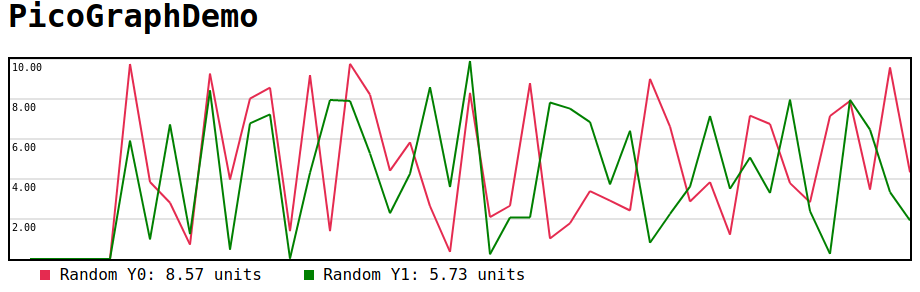
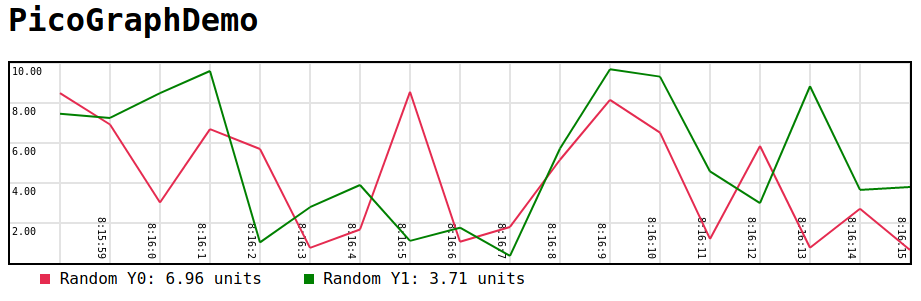
Added vertical lines and timestamps

Changed region(s): [[0.0, 0.1849, 1.0, 0.9555], [0.0, 0.0, 0.3043, 0.1233], [0.0, 0.4932, 0.0304, 0.524]]

diff --git a/picograph.js b/picograph.js
@@ -21,7 +21,8 @@ colors = [
 var byID = function(id) { return document.getElementById(id); };
 
 /* Helper function for creating graphs */
-function createGraph(canvasID, labels, unit, labelDivID, intervalSize, maxVal, scalesteps=5)
+function createGraph(canvasID, labels, unit, labelDivID, intervalSize, maxVal, 
+    vlines=false, timestamps=false, scalesteps=5)
 {
     /* Create valueIDs for each label */
     valueIDs = []
@@ -31,7 +32,8 @@ function createGraph(canvasID, labels, unit, labelDivID, intervalSize, maxVal, s
 
     /* Create graph  */
     var canvas = byID(canvasID);
-    var graph = new Graph(canvas, labels.length, valueIDs, unit, intervalSize, maxVal, scalesteps);
+    var graph = new Graph(canvas, labels.length, valueIDs, unit, intervalSize, maxVal, 
+        vlines, timestamps, scalesteps);
 
     /* Set label colors */
     for(var i = 0; i < labels.length; i++)
@@ -58,7 +60,7 @@ function createGraph(canvasID, labels, unit, labelDivID, intervalSize, maxVal, s
 /* Graph class, plots and updates graphs */
 class Graph
 {
-    constructor(canvas, noLabels, valueIDs, unit, intervalSize, maxVal, scalesteps)
+    constructor(canvas, noLabels, valueIDs, unit, intervalSize, maxVal, vlines, timestamps, scalesteps)
     {
         /* Get the drawing context */
         this.canvas = canvas;
@@ -68,17 +70,20 @@ class Graph
         /* Set proper height and width */
         this.setWidthHeight()
 
-        /* Initilize class varibles */
+        /* Initialize class variables */
         this.scalesteps = scalesteps
         this.noLabels = noLabels;
         this.intervalSize = intervalSize;
         this.nValuesFloat = this.width/intervalSize
         this.nValues = Math.round(this.nValuesFloat)+1;
         this.points = emptyArray(noLabels, this.nValues);
+        this.timestamps_array = emptyArray(1, this.nValues, "");
         this.colors = colorArray(noLabels);
         this.maxVal = maxVal;
         this.valueIDs = valueIDs;
         this.unit = unit;
+        this.vlines = vlines;
+        this.timestamps = timestamps;
     }
 
     setWidthHeight()
@@ -92,15 +97,25 @@ class Graph
         this.height = this.ctx.canvas.height;
     }
 
-    update(yval, labelID)
+    update(values)
     {
-        /* Update scale */
-        if(yval > this.maxVal) {
-            this.maxVal = yval;
-        }
+        for(var i = 0; i < this.noLabels; i++) {
+            /* Update scale */
+            if(values[i] > this.maxVal) {
+                this.maxVal = values[i];
+            }
 
-        /* Shift new point into points array */
-        this.points = shiftArrayRowLeft(this.points, labelID, this.nValues, yval);
+            /* Shift new point into points array */
+            this.points = shiftArrayRowLeft(this.points, i, this.nValues, values[i]);
+
+            /* Update value */
+            byID(this.valueIDs[i]).innerHTML = values[i].toFixed(2)+' '+this.unit;
+        } 
+
+        /* Log time and add to timestamps_array array */
+        var d = new Date();
+        var timestamp_str = d.getHours()+":"+d.getMinutes()+":"+d.getSeconds();
+        this.timestamps_array = shiftArrayRowLeft(this.timestamps_array, 0, this.nValues, timestamp_str);
 
         /* Clear canvas */
         this.ctx.clearRect(0, 0, this.width, this.height);
@@ -114,8 +129,27 @@ class Graph
         /* Set line width */
         this.ctx.lineWidth = 2*this.cssScale;
 
-        /* Draw scale */
+        /* Set font for canvas */
         this.ctx.font = (10*this.cssScale)+"px monospace";
+
+        /* Draw vertical scale */
+        if(this.vlines)
+        {
+            for(var i = this.nValues-1; i >= 0; i--)
+            {
+                /* Calculate line coordinates */
+                var x = (i+1)*this.intervalSize;
+    
+                /* Draw line */
+                this.ctx.beginPath();
+                this.ctx.moveTo(x, 0);
+                this.ctx.lineTo(x, this.height);
+                this.ctx.strokeStyle = "#e3e3e3";
+                this.ctx.stroke();
+            }   
+        }
+
+        /* Draw horizontal scale */
         var hstep = this.height/this.scalesteps;
         var sstep = this.maxVal/this.scalesteps;
         for(var i = 1; i <= this.scalesteps; i++)
@@ -130,6 +164,27 @@ class Graph
             this.ctx.strokeStyle = "#e3e3e3";
             this.ctx.stroke();
         }
+        
+        /* Draw time stamps */
+        if(this.timestamps)
+        {
+            var xBoundPix = this.ctx.measureText((this.scalesteps*sstep).toFixed(2)).width;
+            var xBound = Math.floor((xBoundPix/this.intervalSize)+1)
+            for(var i = this.nValues-1; i >= xBound; i--)
+            {
+                /* Calculate line coordinates */
+                var x = (i+1)*this.intervalSize;
+    
+    
+                /* Put time stamps */
+                var xoffset = 12*this.cssScale;
+                var yoffset = this.ctx.measureText(this.timestamps_array[0][i]).width+4*this.cssScale;
+                this.ctx.rotate(Math.PI/2);
+                this.ctx.fillText(this.timestamps_array[0][i], this.height-yoffset, -x+xoffset);
+                this.ctx.stroke();
+                this.ctx.rotate(-Math.PI/2);
+            }               
+        }  
 
         /* Draw graph */
         for(var i = 0; i < this.noLabels; i++)
@@ -150,9 +205,6 @@ class Graph
                 this.ctx.stroke();
             }
         }
-
-        /* Update value */
-        byID(this.valueIDs[labelID]).innerHTML = yval.toFixed(2)+' '+this.unit;
 
     }
 
@@ -178,13 +230,13 @@ function shiftArrayRowLeft(array, row, ncols, newVal)
 }
 
 /* Helper function to create an empty */
-function emptyArray(nrows, ncols) 
+function emptyArray(nrows, ncols, fill=0) 
 {
     var arr = [];
     for(var i = 0; i < nrows; i++) {
         arr[i] = [];
         for(var j = 0; j < ncols; j++) {
-            arr[i][j] = 0;
+            arr[i][j] = fill;
         }
     }
     return arr;

diff --git a/README.md b/README.md
@@ -27,8 +27,9 @@ Simple and tiny graphing library for javascript.
 
         <script>
             /* Create graph using picograph */
-            var demograph = createGraph("graphDemo", ["Random Y0", "Random Y1"], "units",
-                "graphLabels", 20, 10);
+            var demograph = createGraph("graphDemo", 
+                ["Random Y0", "Random Y1"], 
+                "units", "graphLabels", 50, 10, true, true);
 
             /* Update values every second */
             setInterval(updateEverySecond, 1000);
@@ -39,8 +40,7 @@ Simple and tiny graphing library for javascript.
                 yrand1 = Math.random()*10;
 
                 /* Update graph */
-                demograph.update(yrand0, 0);
-                demograph.update(yrand1, 1)
+                demograph.update([yrand0, yrand1])
             }
 
         </script>
@@ -52,7 +52,7 @@ Simple and tiny graphing library for javascript.
 [Download picograph.js](picograph.js)
 
 ```javascript
-function createGraph(canvasID, labels, unit, labelDivID, intervalSize, maxVal, scalesteps=5)
+function createGraph(canvasID, labels, unit, labelDivID, intervalSize, maxVal,vlines=false, timestamps=false, scalesteps=5)
 ```
 **Arguments** :
 
@@ -63,18 +63,18 @@ function createGraph(canvasID, labels, unit, labelDivID, intervalSize, maxVal, s
 + **intervalSize**: Amount to shift the graph on update.
 + **maxVal**: Approximate maximum value. Picograph can autoscale, this 
 argument is only for initial value.
++ **vlines**: Show vertical lines.
++ **timestamps**: Show timestamps.
 + **scalesteps**: Number of scale lines to draw on the graph.
 
 **Returns** : `Graph` object.
 
 ```javascript
-Graph.update(yval, labelID)
+Graph.update(values)
 ```
 **Arguments** :
 
-+ **yval** : New value to plot.
-+ **labelID** : The index of the label to add the point to 
-(in `Labels` argument in `createGraph`).
++ **values** : Array of values to add to the graph.
 
 # Note
 Always use CSS or `style` to set height and width of the canvas. 
